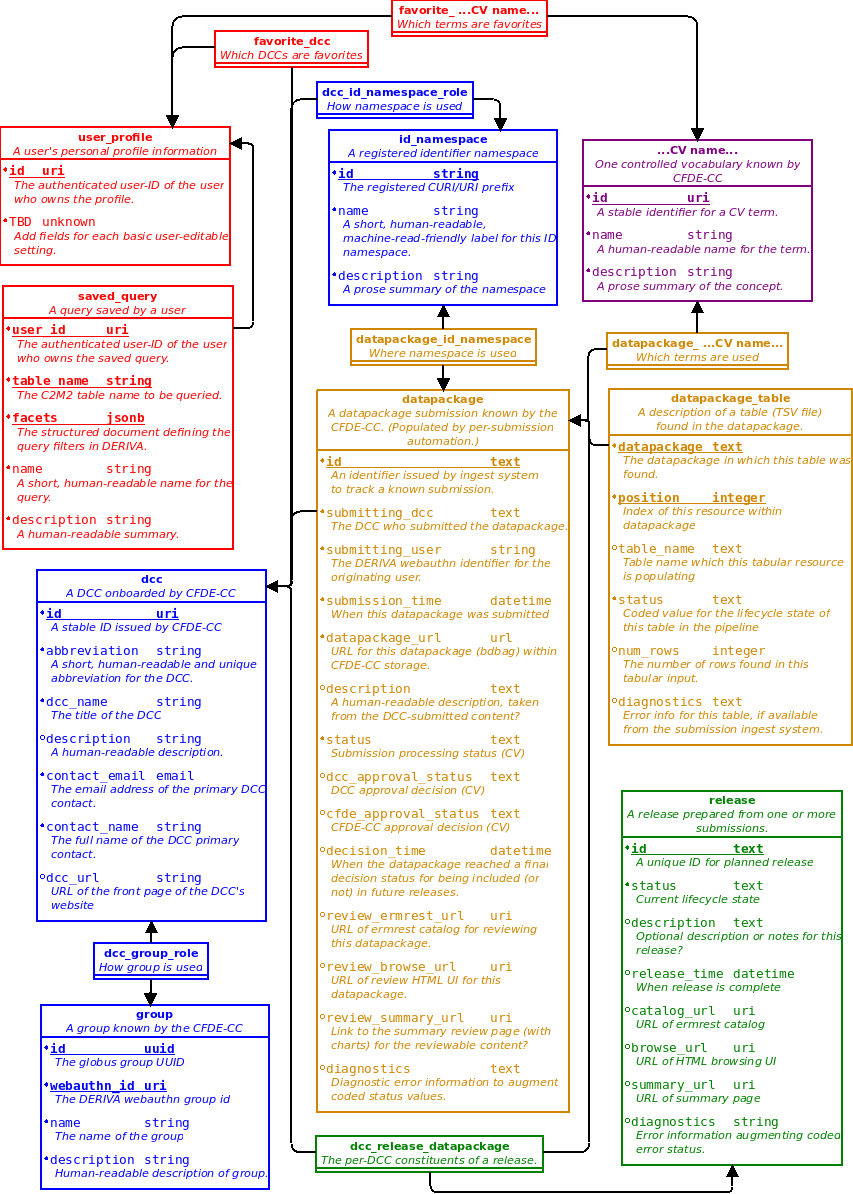
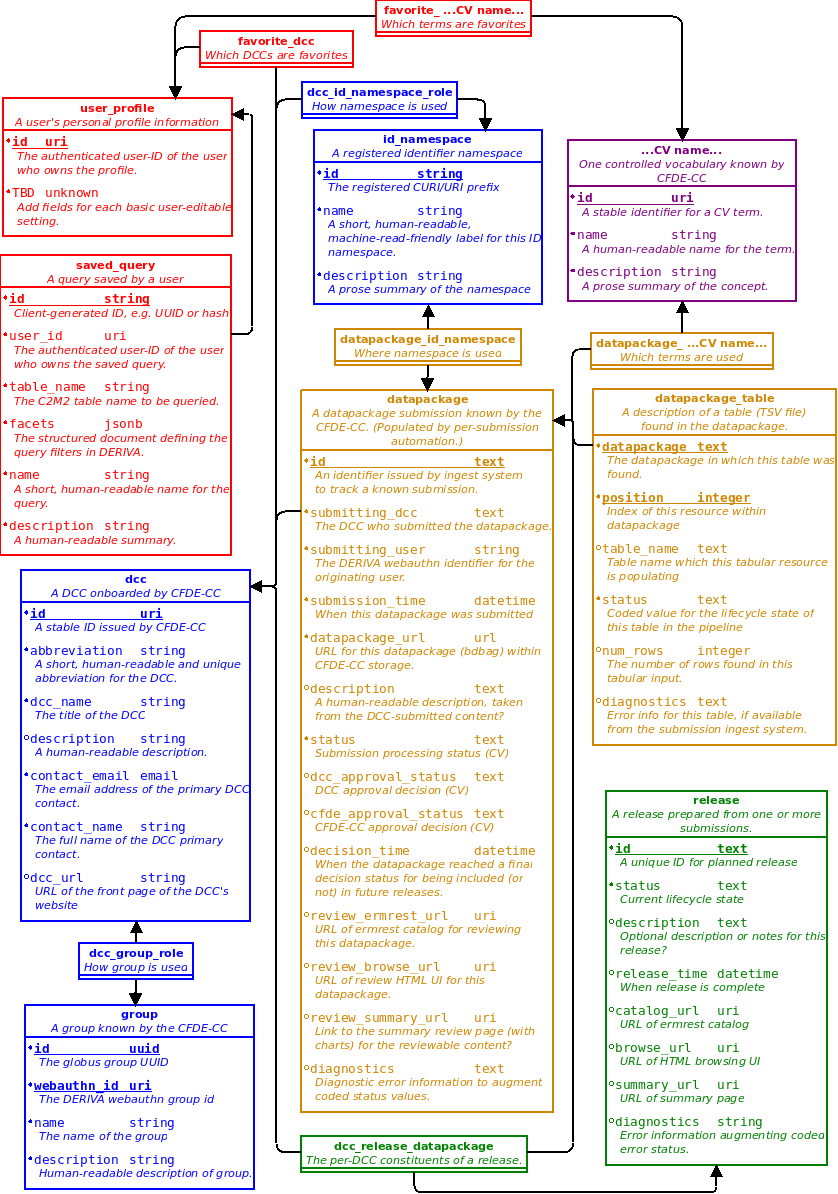
adjust saved_query model
- revise model diagram and registry model JSON
- add client-generated `id` column as primary key
- mark columns "generated" which we wouldn't want edited by recordedit users

Changed region(s): [[0.0, 0.0, 1.0, 1.0], [0.4344, 0.0, 0.6516, 0.031], [0.9618, 0.6817, 0.9928, 0.7127]]

diff --git a/README-registry.md b/README-registry.md
@@ -87,16 +87,18 @@ requesting that a profile be created.  The profile record will store
 any scalar settings for the user, as a single column for each named
 setting.
 
-The `saved_query` table is keyed by ??? and the authenticated user
-ID. Each user can have zero or more saved query records associated
-with their identity. Each record will store necessary information to
-reconstitute a query in Chaise, to name/describe the query in a query
-listing UI, and other system metadata TBD.
+The `saved_query` table is keyed by a client-generated `id` column. To
+avoid collisions between users of the system, the client SHOULD use a
+UUID scheme which includes randomness or a hashing scheme which
+includes the `user_id` as well as other query identity information in
+the hash input. Each user can have zero or more saved query records
+associated with their identity. Each record will store necessary
+information to reconstitute a query in Chaise, to name/describe the
+query in a query listing UI, and other system metadata TBD.
 
-Generally, the various "favorite" tables form binary associations to
+Generally, the various `favorite_*` tables form binary associations to
 link a subset of vocabulary concepts from a given vocabulary table to
 a given user's profile.
-
 
 ### Client Roles
 
